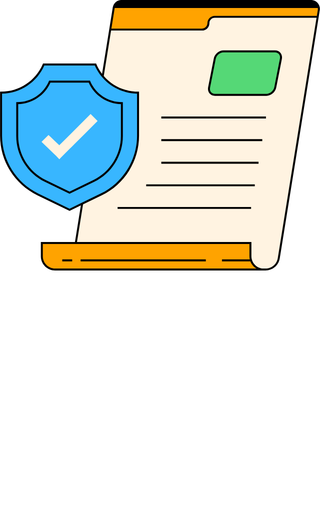
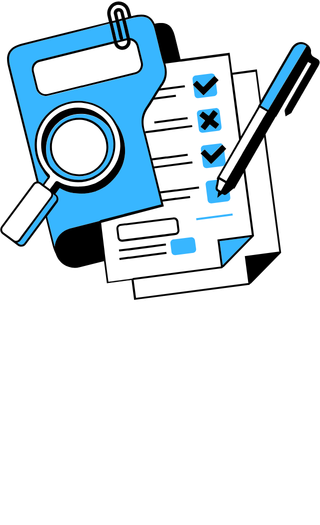
Add pdf to download

diff --git a/src/sections/About.tsx b/src/sections/About.tsx
@@ -3,6 +3,7 @@
 import DirectusIcon from "@/assets/icons/directus.svg";
 import DockerIcon from "@/assets/icons/docker.svg";
 import FastAPIIcon from "@/assets/icons/fastapi.svg";
+import MapPinIcon from "@/assets/icons/map-pin.svg";
 import NextJsIcon from "@/assets/icons/nextjs.svg";
 import PostgreSQLIcon from "@/assets/icons/postgresql.svg";
 import PydanticIcon from "@/assets/icons/pydantic.svg";
@@ -12,7 +13,7 @@ import SQLAlchemyIcon from "@/assets/icons/sqlalchemy.svg";
 import TailwindCssIcon from "@/assets/icons/tailwindcss.svg";
 import TypeScriptIcon from "@/assets/icons/typescript.svg";
 import VercelIcon from "@/assets/icons/vercel.svg";
-import bookImage from "@/assets/images/offer.png";
+import bookImage from "@/assets/images/offer2.png";
 import mapImage from "@/assets/images/map.png";
 import smileMemoji from "@/assets/images/Subject 2.png";
 import { Card } from "@/components/Card";
@@ -22,6 +23,9 @@ import { ToolboxItems } from "@/components/ToolboxItems";
 import { motion } from "framer-motion";
 import Image from "next/image";
 import { useRef } from "react";
+
+const STARTER_OFFER_PDF_HREF = "/Starter-Offer-Viktor-Rura.pdf";
+const STARTER_OFFER_PDF_FILENAME = "Starter-Offer-Viktor-Rura.pdf";
 
 const toolboxFrontendItems = [
   { title: "Next.js", iconType: NextJsIcon },
@@ -98,15 +102,21 @@ export const AboutSection = () => {
         />
         <div className="mt-20 flex flex-col gap-8">
           <div className="grid grid-cols-1 gap-8 md:grid-cols-5 lg:grid-cols-3">
-            <Card className="h-[320px] md:col-span-2 lg:col-span-1">
-              <CardHeader
-                title="Starter Offer"
-                description="A complete roadmap to transform your idea into a high-performance MVP"
-              />
-              <div className="w-40 mx-auto mt-2 md:mt-0">
-                <Image src={bookImage} alt="Book cover" />
-              </div>
-            </Card>
+            <a
+              href={STARTER_OFFER_PDF_HREF}
+              download={STARTER_OFFER_PDF_FILENAME}
+              className="group block md:col-span-2 lg:col-span-1 rounded-3xl focus-visible:outline focus-visible:outline-2 focus-visible:outline-offset-2 focus-visible:outline-emerald-400"
+            >
+              <Card className="h-[320px] cursor-pointer transition-[background-color,box-shadow] group-hover:bg-gray-800/80 group-hover:ring-1 group-hover:ring-white/10">
+                <CardHeader
+                  title="Starter Offer"
+                  description="Get your website live in 10 days for a fixed fee. Click to download the full process"
+                />
+                <div className="w-40 mx-auto mt-2 md:mt-0 pointer-events-none">
+                  <Image src={bookImage} alt="Starter offer PDF preview" />
+                </div>
+              </Card>
+            </a>
             <Card className="h-[320px] md:col-span-3 lg:col-span-2">
               <CardHeader
                 className=""
@@ -128,8 +138,8 @@ export const AboutSection = () => {
           <div className="grid grid-cols-1 gap-8 md:grid-cols-5 lg:grid-cols-3">
             <Card className="h-[320px] flex flex-col md:col-span-3 lg:col-span-2">
               <CardHeader
-                title="Beyond the Code"
-                description="Explore my interests and hobbies beyond the digital."
+                title="Life Outside Logice"
+                description="From the ocean waves to the kitchen..."
                 className="px-6 py-6"
               />
 
@@ -156,10 +166,15 @@ export const AboutSection = () => {
             <Card className="h-[320px] p-0 relative md:col-span-2 lg:col-span-1">
               <Image
                 src={mapImage}
-                alt="map"
+                alt="Map — based in the Irish Midlands, Ireland"
                 className="h-full object-cover object-left-top"
               />
-              <div className='absolute top-1/2 left-1/2 -translate-x-1/2 -translate-y-1/2 size-20 rounded-full  after:content[""] after:inset-0 after:outline after:outline-2 after:-outline-offset-2 after:rounded-full after:outline-gray-950/30'></div>
+              <div
+                className="absolute top-1/3 left-1/2 -translate-x-1/5 -translate-y-1/2"
+                aria-hidden
+              >
+                <MapPinIcon className="size-16 text-gray-800" />
+              </div>
             </Card>
           </div>
         </div>

diff --git a/src/sections/Projects.tsx b/src/sections/Projects.tsx
@@ -57,7 +57,7 @@ export const ProjectsSection = () => {
         <SectionHeader
           eyebrow="Real-world Results"
           title="Featured Projects"
-          description="See how I transformed concepts into engaging digital experiences."
+          description="A selection of digital products built to solve complex problems through clean architecture and intuitive design."
         />
 
         <div className="flex flex-col mt-10 gap-20 md:mt-20 ">
